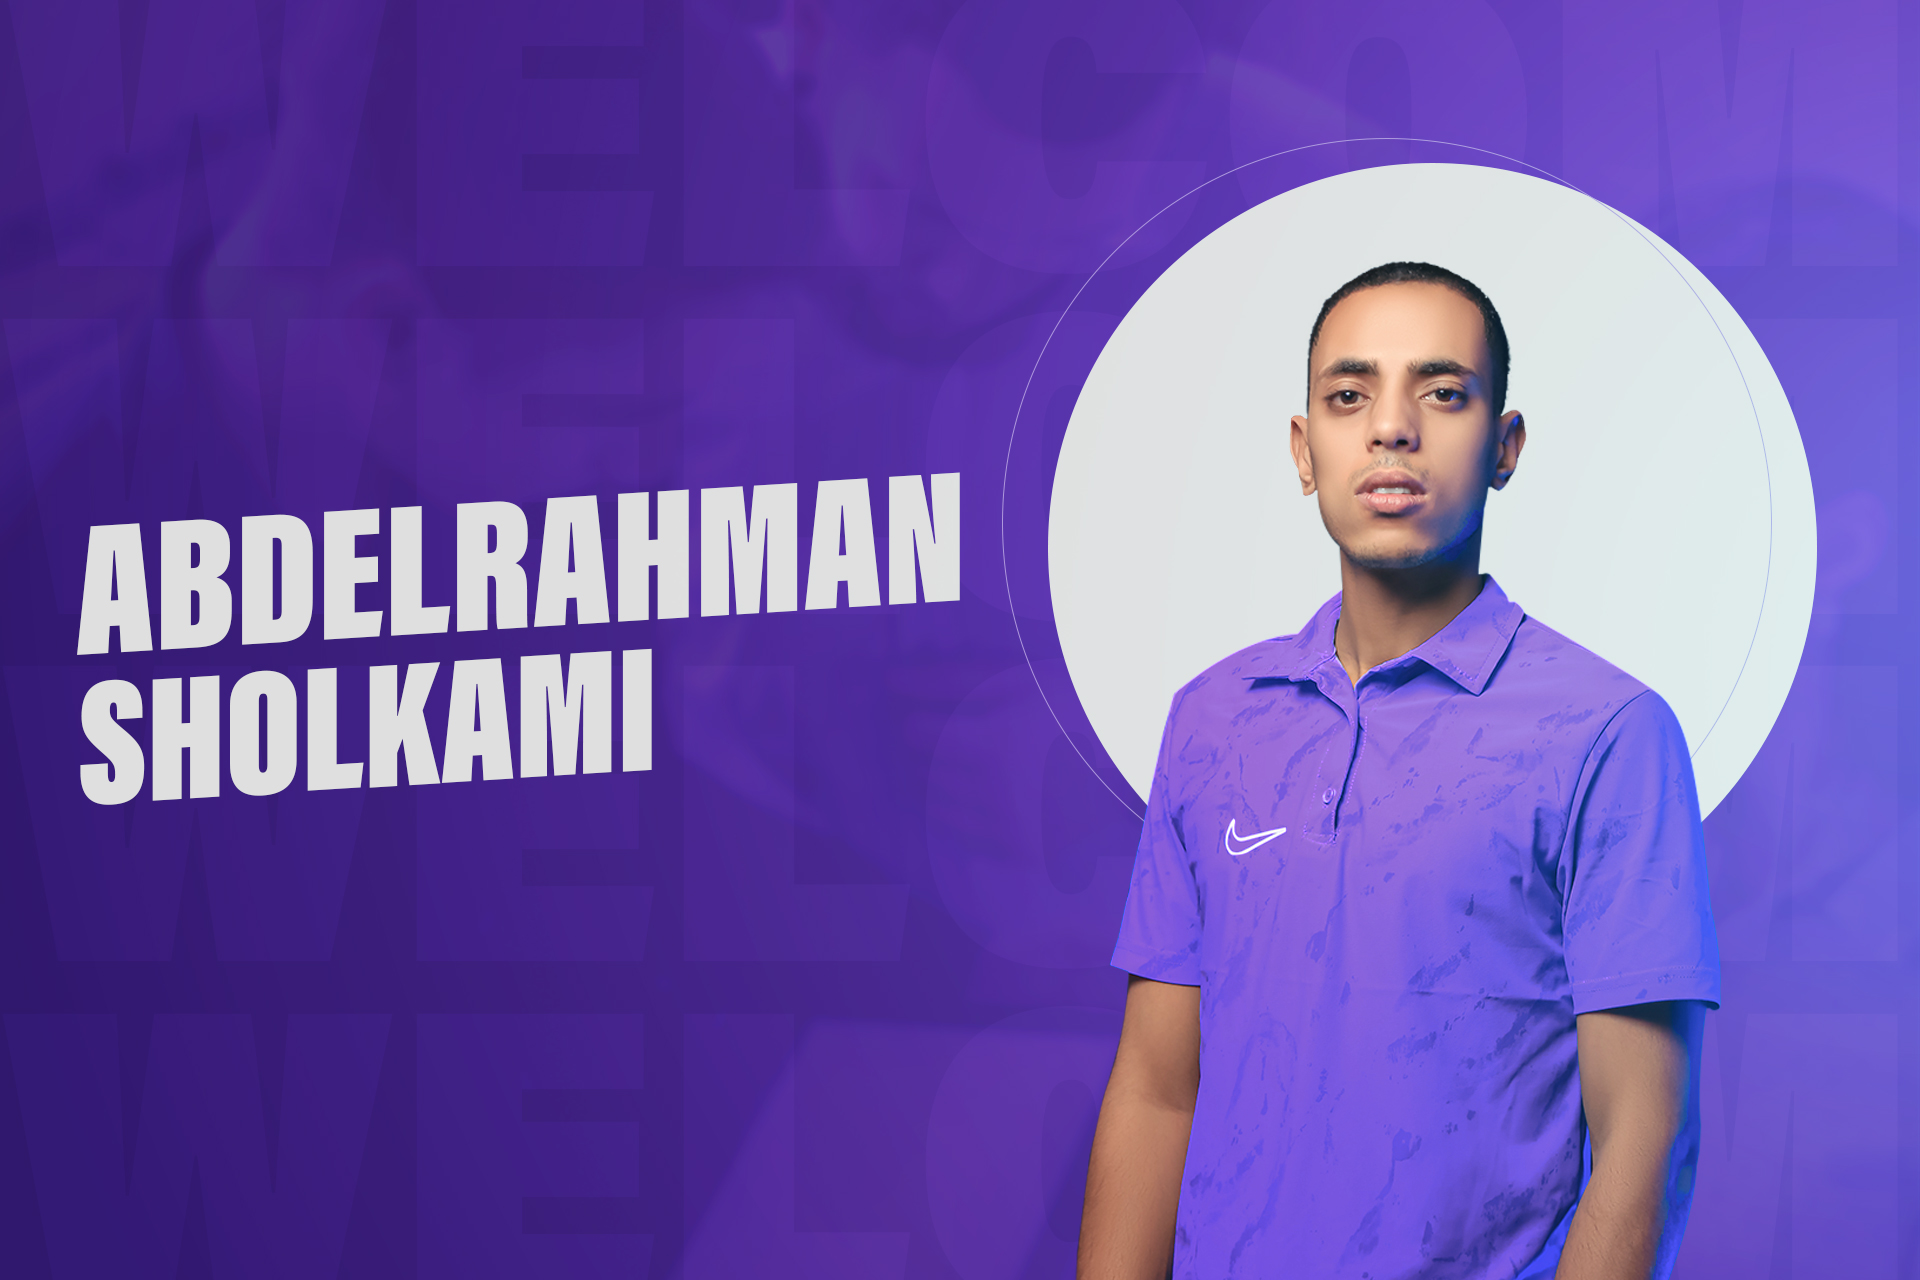
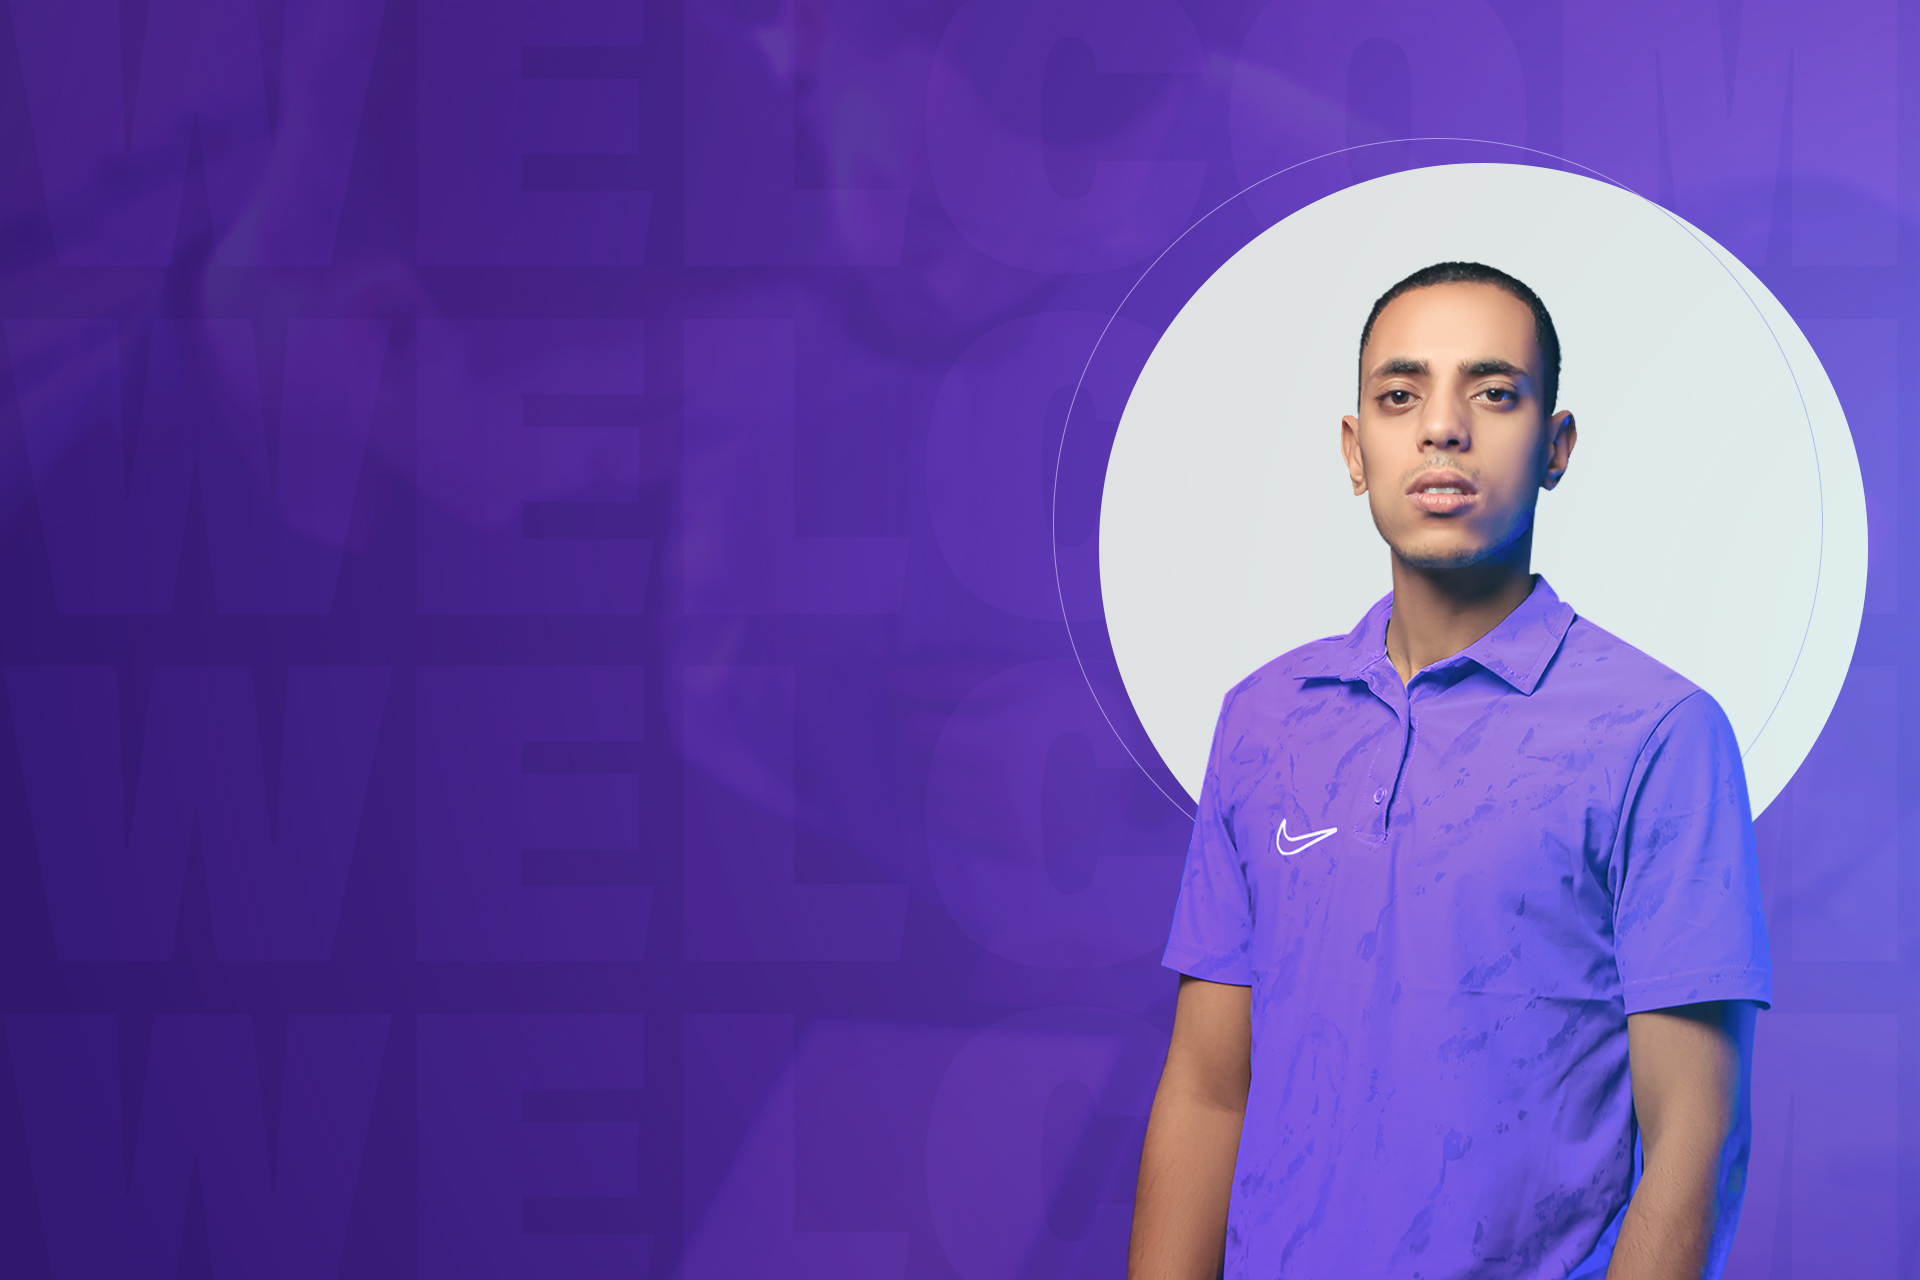
شيي

diff --git a/assets/css/style.css b/assets/css/style.css
@@ -238,13 +238,24 @@ h6 {
 /*--------------------------------------------------------------
 # Hero Section
 --------------------------------------------------------------*/
-#hero {
-  width: 100%;
-  height: 100vh;
-  background: url("../img/hero-bg.jpg") top center;
-  background-size: cover;
-}
+@media (min-width:769px) {
+  #hero {
+    width: 100%;
+    height: 100vh;
+    background: url("../img/hero-bg.jpg") top center;
+    background-size: cover;
 
+  }
+}
+@media (max-width:768px) {
+  #hero {
+    width: 100%;
+    height: 100vh;
+    background: url("../img/mob.jpg") top center;
+    background-size: cover;
+
+  }
+}
 #hero:before {
   content: "";
   background: rgba(5, 13, 24, 0.3);

diff --git a/index.html b/index.html
@@ -72,7 +72,7 @@
   <!-- ======= Hero Section ======= -->
   <section id="hero" class="d-flex flex-column justify-content-center align-items-center">
     <div class="hero-container" data-aos="fade-in">
-      <h1>Abdelrahman Sholkami</h1>
+      <h1>Abdelrahman <br> Sholkami</h1>
       <p>I'm <span class="typed" data-typed-items="Graphic Designer, Motion Graphics, Freelancer"></span></p>
     </div>
   </section><!-- End Hero -->
